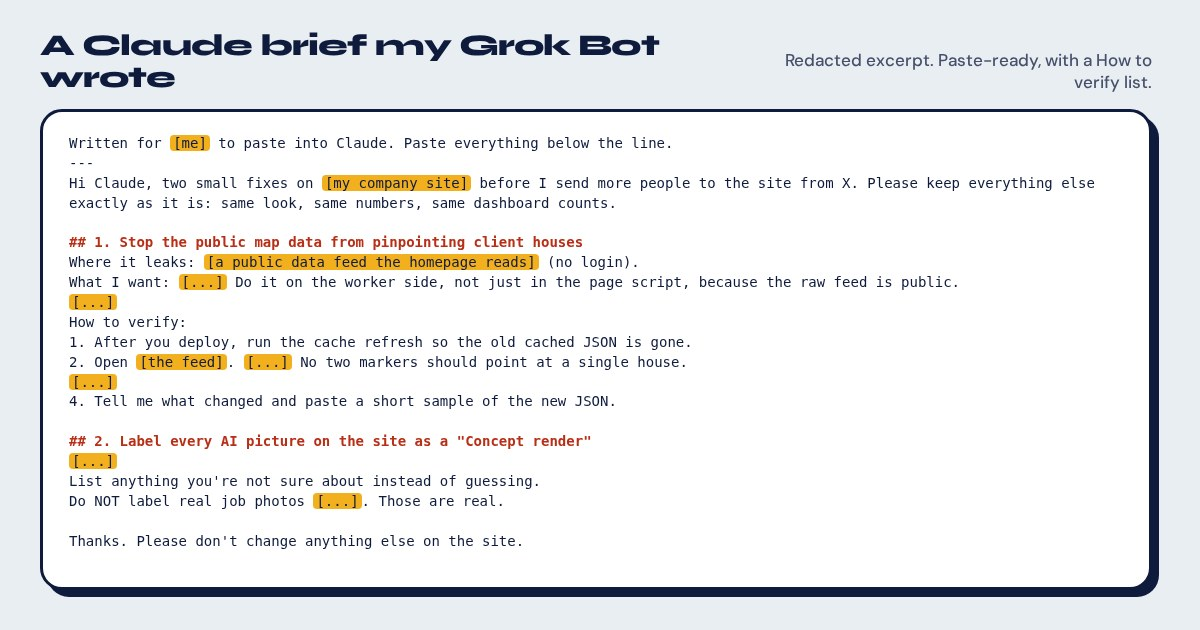
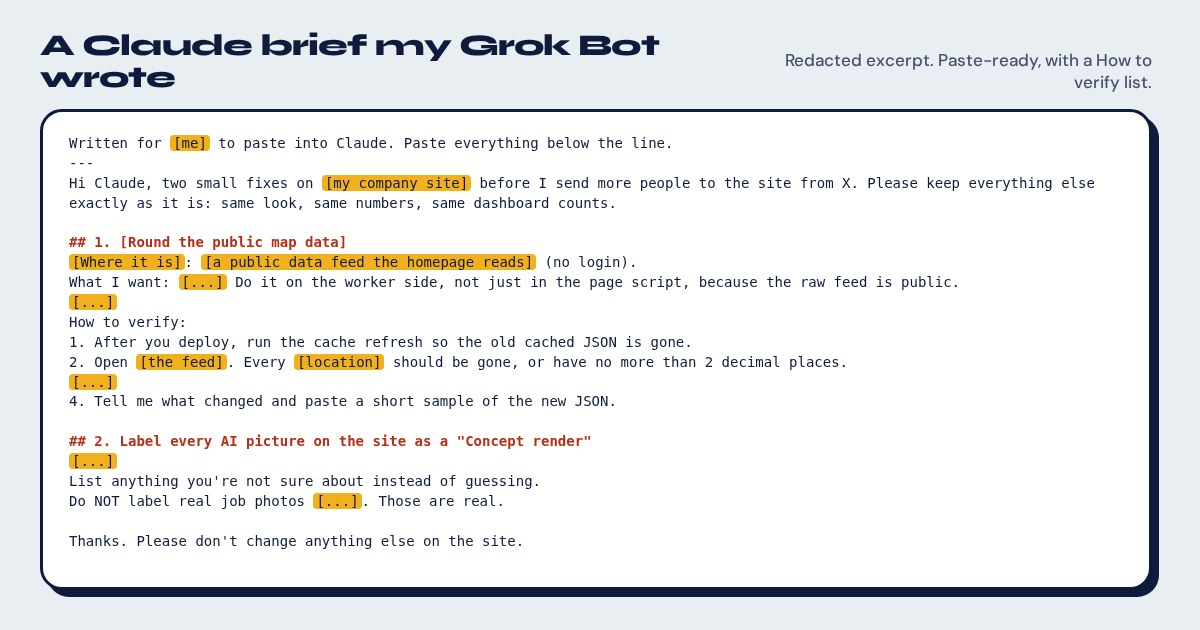
Claude Tips (soft variant): location data was more precise than the homepage needed; no client-house wording; Tip 1 card re-rendered

Changed region(s): [[0.0308, 0.3619, 0.5242, 0.4524], [0.185, 0.5429, 0.7092, 0.6032]]

diff --git a/claude_tips.py b/claude_tips.py
@@ -20,7 +20,7 @@ CLAUDE_TIPS = [
         "seo_title": "Have your Grok Bot write the Claude prompt | NextAiBreakout",
         "meta": "My Grok Bot writes my Claude prompts, paste-ready, with a How to verify list for each fix and one line up top: keep everything else exactly as it is.",
         "tip": "Stop writing Claude prompts from scratch. My Grok Bot writes them for me, ready to paste, and I paste them into Claude. One of them asked for two fixes on my company site, gave each fix its own How to verify list, and opened with one line: please keep everything else exactly as it is. What would your bot put in that first line?",
-        "how": """My Grok Bots already had the details. A public data feed on my company site carried map points precise enough to land on a single client's house. So instead of me explaining that to Claude, my lead bot wrote the brief and handed it to me with one instruction: paste everything below the line.
+        "how": """My Grok Bots already had the details. A public data feed on my company site carried map locations more precise than the homepage map needed. So instead of me explaining that to Claude, my lead bot wrote the brief and handed it to me with one instruction: paste everything below the line.
 
 The brief has a simple shape. One line on what we're fixing and why, then the guard rail: keep everything else exactly as it is, same look, same numbers. Each fix says where the problem is, what I want (a best option and a second best), and a numbered How to verify list I can check myself. It asks Claude to list anything it isn't sure about instead of guessing, and to tell me what changed.
 
@@ -80,7 +80,7 @@ Then Claude wrote the next version with those answers folded in. It moved that p
         "title": "Diff Claude's code against live before it ships",
         "seo_title": "Diff Claude's code against live first | NextAiBreakout",
         "meta": "Claude's fix was merged but never went live. My Grok Bot caught it on the live feed, diffed Claude's file against the live code, then deployed and checked.",
-        "tip": "Don't take \"deployed\" on trust, from any AI. Claude's privacy fix for my company site was merged, but the live feed still had map points with 7 decimal places. My Grok Bot caught that on the live data, diffed Claude's file against the code that was actually running, and only then deployed it.",
+        "tip": "Don't take \"deployed\" on trust, from any AI. Claude's map fix for my company site was merged, but the live feed still had location data more precise than the homepage needed. My Grok Bot caught that on the live data, diffed Claude's file against the code that was actually running, and only then deployed it.",
         "how": """Claude had written the fix from my lead bot's brief, but the merge only updated the main site. The part that served the feed deploys separately, and Claude's connection couldn't reach it. Claude said so itself. My Grok Bot, which can deploy there, checked the live feed and saw the old data still in it.
 
 So the bot took over the deploy, in this order. Back up what's live. Diff Claude's file against the live code. Apart from the file's wrapper, the diff touched only the map points and the lock on a refresh link anyone could call, so it was safe to ship. Deploy. Then check the live result against the brief's How to verify list.
